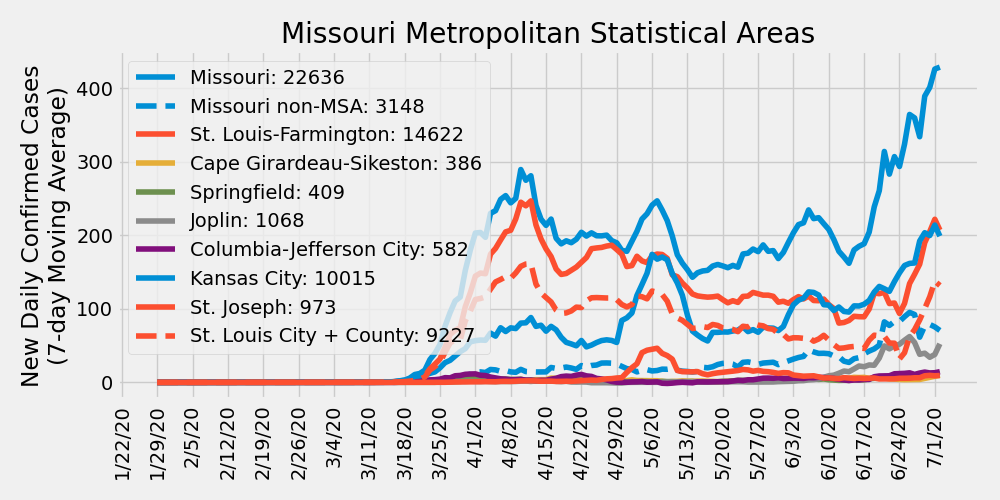
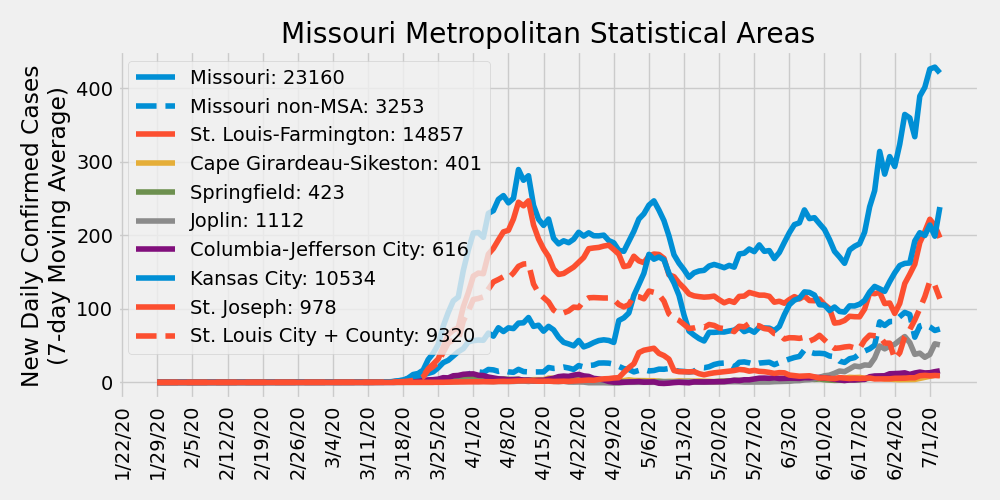
update 7/4/2020

diff --git a/ajvogt-analysis/missouri_analysis.md b/ajvogt-analysis/missouri_analysis.md
@@ -1,6 +1,6 @@
 # COVID-19 Missouri Statistics & Regional Breakdowns
 Author: Adam J. Vogt  
-Updated: 07/03/2020  
+Updated: 07/04/2020  
 Source: [COVID-19 Data Repository by the Center for Systems Science and Engineering (CSSE) at Johns Hopkins University](https://github.com/CSSEGISandData/COVID-19)  
 Source Code: `/ajvogt-analysis/mo_analysis_script.py`  
 Release Notes: [release_notes.md](https://github.com/ajvogt/COVID-19/blob/master/ajvogt-analysis/release_notes.md)
@@ -27,129 +27,129 @@ Legend shows cumulative confirmed cases
 ## Metropolitan Statistical Area (MSA) Counties
 | MSA | State | County | Total Cases | Total Deaths |
 |-----|-------|--------|---|---|
-| St. Louis-Farmington | Missouri | Lincoln | 99 | 1 |
-| St. Louis-Farmington | Missouri | Warren | 44 | 0 |
-| St. Louis-Farmington | Missouri | Franklin | 213 | 18 |
-| St. Louis-Farmington | Missouri | Jefferson | 488 | 22 |
-| St. Louis-Farmington | Missouri | St. Charles | 1082 | 74 |
-| St. Louis-Farmington | Missouri | St. Louis | 6682 | 582 |
-| St. Louis-Farmington | Missouri | St. Louis City | 2545 | 157 |
+| St. Louis-Farmington | Missouri | Lincoln | 98 | 1 |
+| St. Louis-Farmington | Missouri | Warren | 45 | 0 |
+| St. Louis-Farmington | Missouri | Franklin | 217 | 18 |
+| St. Louis-Farmington | Missouri | Jefferson | 496 | 22 |
+| St. Louis-Farmington | Missouri | St. Charles | 1102 | 74 |
+| St. Louis-Farmington | Missouri | St. Louis | 6755 | 583 |
+| St. Louis-Farmington | Missouri | St. Louis City | 2565 | 158 |
 | St. Louis-Farmington | Missouri | St. Francois | 151 | 2 |
-| St. Louis-Farmington | Illinois | Monroe | 127 | 13 |
-| St. Louis-Farmington | Illinois | St. Clair | 1906 | 136 |
-| St. Louis-Farmington | Illinois | Madison | 947 | 69 |
-| St. Louis-Farmington | Illinois | Macoupin | 52 | 3 |
+| St. Louis-Farmington | Illinois | Monroe | 129 | 13 |
+| St. Louis-Farmington | Illinois | St. Clair | 1965 | 137 |
+| St. Louis-Farmington | Illinois | Madison | 991 | 69 |
+| St. Louis-Farmington | Illinois | Macoupin | 54 | 3 |
 | St. Louis-Farmington | Illinois | Jersey | 35 | 1 |
-| St. Louis-Farmington | Illinois | Clinton | 237 | 17 |
+| St. Louis-Farmington | Illinois | Clinton | 240 | 17 |
 | St. Louis-Farmington | Illinois | Calhoun | 1 | 0 |
 | St. Louis-Farmington | Illinois | Bond | 13 | 1 |
-| Cape Girardeau-Sikeston | Missouri | Cape Girardeau | 182 | 3 |
-| Cape Girardeau-Sikeston | Missouri | Bollinger | 12 | 0 |
+| Cape Girardeau-Sikeston | Missouri | Cape Girardeau | 193 | 3 |
+| Cape Girardeau-Sikeston | Missouri | Bollinger | 14 | 0 |
 | Cape Girardeau-Sikeston | Illinois | Alexander | 22 | 0 |
-| Cape Girardeau-Sikeston | Missouri | Scott | 170 | 11 |
-| Springfield | Missouri | Greene | 298 | 8 |
-| Springfield | Missouri | Christian | 46 | 1 |
-| Springfield | Missouri | Webster | 35 | 1 |
-| Springfield | Missouri | Polk | 16 | 0 |
+| Cape Girardeau-Sikeston | Missouri | Scott | 172 | 11 |
+| Springfield | Missouri | Greene | 308 | 8 |
+| Springfield | Missouri | Christian | 47 | 1 |
+| Springfield | Missouri | Webster | 39 | 1 |
+| Springfield | Missouri | Polk | 15 | 0 |
 | Springfield | Missouri | Dallas | 14 | 1 |
-| Joplin | Missouri | Jasper | 620 | 5 |
-| Joplin | Missouri | Newton | 448 | 2 |
+| Joplin | Missouri | Jasper | 661 | 5 |
+| Joplin | Missouri | Newton | 451 | 2 |
 | Columbia-Jefferson City | Missouri | Howard | 5 | 0 |
-| Columbia-Jefferson City | Missouri | Boone | 372 | 2 |
-| Columbia-Jefferson City | Missouri | Cooper | 16 | 0 |
-| Columbia-Jefferson City | Missouri | Moniteau | 52 | 1 |
-| Columbia-Jefferson City | Missouri | Cole | 79 | 2 |
-| Columbia-Jefferson City | Missouri | Callaway | 51 | 1 |
+| Columbia-Jefferson City | Missouri | Boone | 395 | 2 |
+| Columbia-Jefferson City | Missouri | Cooper | 20 | 0 |
+| Columbia-Jefferson City | Missouri | Moniteau | 53 | 1 |
+| Columbia-Jefferson City | Missouri | Cole | 81 | 2 |
+| Columbia-Jefferson City | Missouri | Callaway | 55 | 1 |
 | Columbia-Jefferson City | Missouri | Osage | 7 | 0 |
-| Kansas City | Missouri | Kansas City | 2497 | 31 |
-| Kansas City | Missouri | Jackson | 1247 | 39 |
-| Kansas City | Missouri | Clay | 472 | 11 |
-| Kansas City | Missouri | Cass | 141 | 8 |
-| Kansas City | Missouri | Platte | 121 | 6 |
-| Kansas City | Missouri | Lafayette | 91 | 2 |
-| Kansas City | Missouri | Ray | 26 | 0 |
-| Kansas City | Missouri | Clinton | 26 | 0 |
+| Kansas City | Missouri | Kansas City | 2601 | 31 |
+| Kansas City | Missouri | Jackson | 1289 | 39 |
+| Kansas City | Missouri | Clay | 478 | 11 |
+| Kansas City | Missouri | Cass | 152 | 8 |
+| Kansas City | Missouri | Platte | 124 | 6 |
+| Kansas City | Missouri | Lafayette | 92 | 2 |
+| Kansas City | Missouri | Ray | 27 | 0 |
+| Kansas City | Missouri | Clinton | 28 | 0 |
 | Kansas City | Missouri | Bates | 12 | 1 |
-| Kansas City | Missouri | Caldwell | 11 | 0 |
-| Kansas City | Kansas | Johnson | 1816 | 88 |
-| Kansas City | Kansas | Wyandotte | 2336 | 83 |
-| Kansas City | Kansas | Leavenworth | 1171 | 7 |
-| Kansas City | Kansas | Miami | 34 | 0 |
-| Kansas City | Kansas | Linn | 14 | 0 |
-| St. Joseph | Missouri | Andrew | 54 | 0 |
-| St. Joseph | Missouri | Buchanan | 880 | 3 |
-| St. Joseph | Missouri | DeKalb | 13 | 0 |
+| Kansas City | Missouri | Caldwell | 12 | 0 |
+| Kansas City | Kansas | Johnson | 1993 | 88 |
+| Kansas City | Kansas | Wyandotte | 2495 | 84 |
+| Kansas City | Kansas | Leavenworth | 1181 | 7 |
+| Kansas City | Kansas | Miami | 35 | 0 |
+| Kansas City | Kansas | Linn | 15 | 0 |
+| St. Joseph | Missouri | Andrew | 55 | 0 |
+| St. Joseph | Missouri | Buchanan | 883 | 3 |
+| St. Joseph | Missouri | DeKalb | 14 | 0 |
 | St. Joseph | Kansas | Doniphan | 26 | 0 |
 | Missouri non-MSA | Missouri | Adair |  91 | 0 |
 | Missouri non-MSA | Missouri | Atchison |  4 | 0 |
 | Missouri non-MSA | Missouri | Audrain |  139 | 1 |
-| Missouri non-MSA | Missouri | Barry |  66 | 0 |
+| Missouri non-MSA | Missouri | Barry |  71 | 0 |
 | Missouri non-MSA | Missouri | Barton |  26 | 0 |
-| Missouri non-MSA | Missouri | Benton |  17 | 0 |
+| Missouri non-MSA | Missouri | Benton |  18 | 0 |
 | Missouri non-MSA | Missouri | Butler |  108 | 0 |
-| Missouri non-MSA | Missouri | Camden |  67 | 1 |
-| Missouri non-MSA | Missouri | Carroll |  12 | 0 |
+| Missouri non-MSA | Missouri | Camden |  66 | 1 |
+| Missouri non-MSA | Missouri | Carroll |  14 | 0 |
 | Missouri non-MSA | Missouri | Carter |  6 | 1 |
-| Missouri non-MSA | Missouri | Cedar |  9 | 0 |
+| Missouri non-MSA | Missouri | Cedar |  11 | 0 |
 | Missouri non-MSA | Missouri | Chariton |  6 | 0 |
 | Missouri non-MSA | Missouri | Clark |  2 | 0 |
-| Missouri non-MSA | Missouri | Crawford |  13 | 0 |
+| Missouri non-MSA | Missouri | Crawford |  15 | 0 |
 | Missouri non-MSA | Missouri | Dade |  1 | 0 |
 | Missouri non-MSA | Missouri | Daviess |  9 | 0 |
 | Missouri non-MSA | Missouri | Dent |  4 | 0 |
 | Missouri non-MSA | Missouri | Douglas |  6 | 0 |
-| Missouri non-MSA | Missouri | Dunklin |  106 | 3 |
+| Missouri non-MSA | Missouri | Dunklin |  108 | 3 |
 | Missouri non-MSA | Missouri | Gasconade |  12 | 0 |
 | Missouri non-MSA | Missouri | Gentry |  58 | 9 |
 | Missouri non-MSA | Missouri | Grundy |  20 | 0 |
-| Missouri non-MSA | Missouri | Harrison |  14 | 0 |
+| Missouri non-MSA | Missouri | Harrison |  17 | 0 |
 | Missouri non-MSA | Missouri | Henry |  20 | 3 |
 | Missouri non-MSA | Missouri | Hickory |  0 | 0 |
 | Missouri non-MSA | Missouri | Holt |  1 | 0 |
-| Missouri non-MSA | Missouri | Howell |  41 | 0 |
-| Missouri non-MSA | Missouri | Iron |  2 | 0 |
+| Missouri non-MSA | Missouri | Howell |  45 | 0 |
+| Missouri non-MSA | Missouri | Iron |  3 | 0 |
 | Missouri non-MSA | Missouri | Knox |  2 | 0 |
 | Missouri non-MSA | Missouri | Laclede |  33 | 0 |
-| Missouri non-MSA | Missouri | Lawrence |  37 | 1 |
+| Missouri non-MSA | Missouri | Lawrence |  41 | 1 |
 | Missouri non-MSA | Missouri | Lewis |  7 | 1 |
-| Missouri non-MSA | Missouri | Livingston |  13 | 0 |
-| Missouri non-MSA | Missouri | McDonald |  572 | 1 |
+| Missouri non-MSA | Missouri | Livingston |  15 | 0 |
+| Missouri non-MSA | Missouri | McDonald |  598 | 1 |
 | Missouri non-MSA | Missouri | Macon |  8 | 0 |
 | Missouri non-MSA | Missouri | Maries |  6 | 0 |
-| Missouri non-MSA | Missouri | Marion |  20 | 0 |
+| Missouri non-MSA | Missouri | Marion |  25 | 0 |
 | Missouri non-MSA | Missouri | Mercer |  6 | 0 |
-| Missouri non-MSA | Missouri | Miller |  17 | 0 |
+| Missouri non-MSA | Missouri | Miller |  19 | 0 |
 | Missouri non-MSA | Missouri | Mississippi |  91 | 0 |
 | Missouri non-MSA | Missouri | Montgomery |  20 | 0 |
-| Missouri non-MSA | Missouri | Morgan |  14 | 0 |
-| Missouri non-MSA | Missouri | New Madrid |  43 | 1 |
-| Missouri non-MSA | Missouri | Nodaway |  21 | 0 |
+| Missouri non-MSA | Missouri | Morgan |  15 | 0 |
+| Missouri non-MSA | Missouri | New Madrid |  44 | 1 |
+| Missouri non-MSA | Missouri | Nodaway |  22 | 0 |
 | Missouri non-MSA | Missouri | Oregon |  7 | 0 |
 | Missouri non-MSA | Missouri | Ozark |  2 | 0 |
 | Missouri non-MSA | Missouri | Pemiscot |  111 | 6 |
-| Missouri non-MSA | Missouri | Perry |  147 | 0 |
-| Missouri non-MSA | Missouri | Pettis |  122 | 1 |
-| Missouri non-MSA | Missouri | Phelps |  44 | 0 |
+| Missouri non-MSA | Missouri | Perry |  149 | 0 |
+| Missouri non-MSA | Missouri | Pettis |  125 | 1 |
+| Missouri non-MSA | Missouri | Phelps |  45 | 0 |
 | Missouri non-MSA | Missouri | Pike |  36 | 1 |
-| Missouri non-MSA | Missouri | Pulaski |  128 | 1 |
+| Missouri non-MSA | Missouri | Pulaski |  127 | 1 |
 | Missouri non-MSA | Missouri | Putnam |  3 | 0 |
 | Missouri non-MSA | Missouri | Ralls |  10 | 0 |
 | Missouri non-MSA | Missouri | Randolph |  12 | 0 |
 | Missouri non-MSA | Missouri | Reynolds |  2 | 0 |
 | Missouri non-MSA | Missouri | Ripley |  19 | 0 |
 | Missouri non-MSA | Missouri | Ste. Genevieve |  20 | 1 |
-| Missouri non-MSA | Missouri | Saline |  282 | 4 |
+| Missouri non-MSA | Missouri | Saline |  284 | 4 |
 | Missouri non-MSA | Missouri | Schuyler |  5 | 0 |
 | Missouri non-MSA | Missouri | Scotland |  11 | 1 |
-| Missouri non-MSA | Missouri | Shannon |  11 | 0 |
+| Missouri non-MSA | Missouri | Shannon |  13 | 0 |
 | Missouri non-MSA | Missouri | Shelby |  4 | 0 |
-| Missouri non-MSA | Missouri | Stoddard |  137 | 8 |
-| Missouri non-MSA | Missouri | Stone |  16 | 0 |
-| Missouri non-MSA | Missouri | Sullivan |  112 | 0 |
-| Missouri non-MSA | Missouri | Taney |  67 | 2 |
+| Missouri non-MSA | Missouri | Stoddard |  141 | 8 |
+| Missouri non-MSA | Missouri | Stone |  20 | 0 |
+| Missouri non-MSA | Missouri | Sullivan |  115 | 0 |
+| Missouri non-MSA | Missouri | Taney |  74 | 2 |
 | Missouri non-MSA | Missouri | Texas |  6 | 0 |
-| Missouri non-MSA | Missouri | Vernon |  17 | 0 |
-| Missouri non-MSA | Missouri | Washington |  23 | 1 |
+| Missouri non-MSA | Missouri | Vernon |  26 | 1 |
+| Missouri non-MSA | Missouri | Washington |  25 | 1 |
 | Missouri non-MSA | Missouri | Wayne |  4 | 0 |
 | Missouri non-MSA | Missouri | Worth |  4 | 0 |
-| Missouri non-MSA | Missouri | Wright |  15 | 0 |
+| Missouri non-MSA | Missouri | Wright |  20 | 0 |
